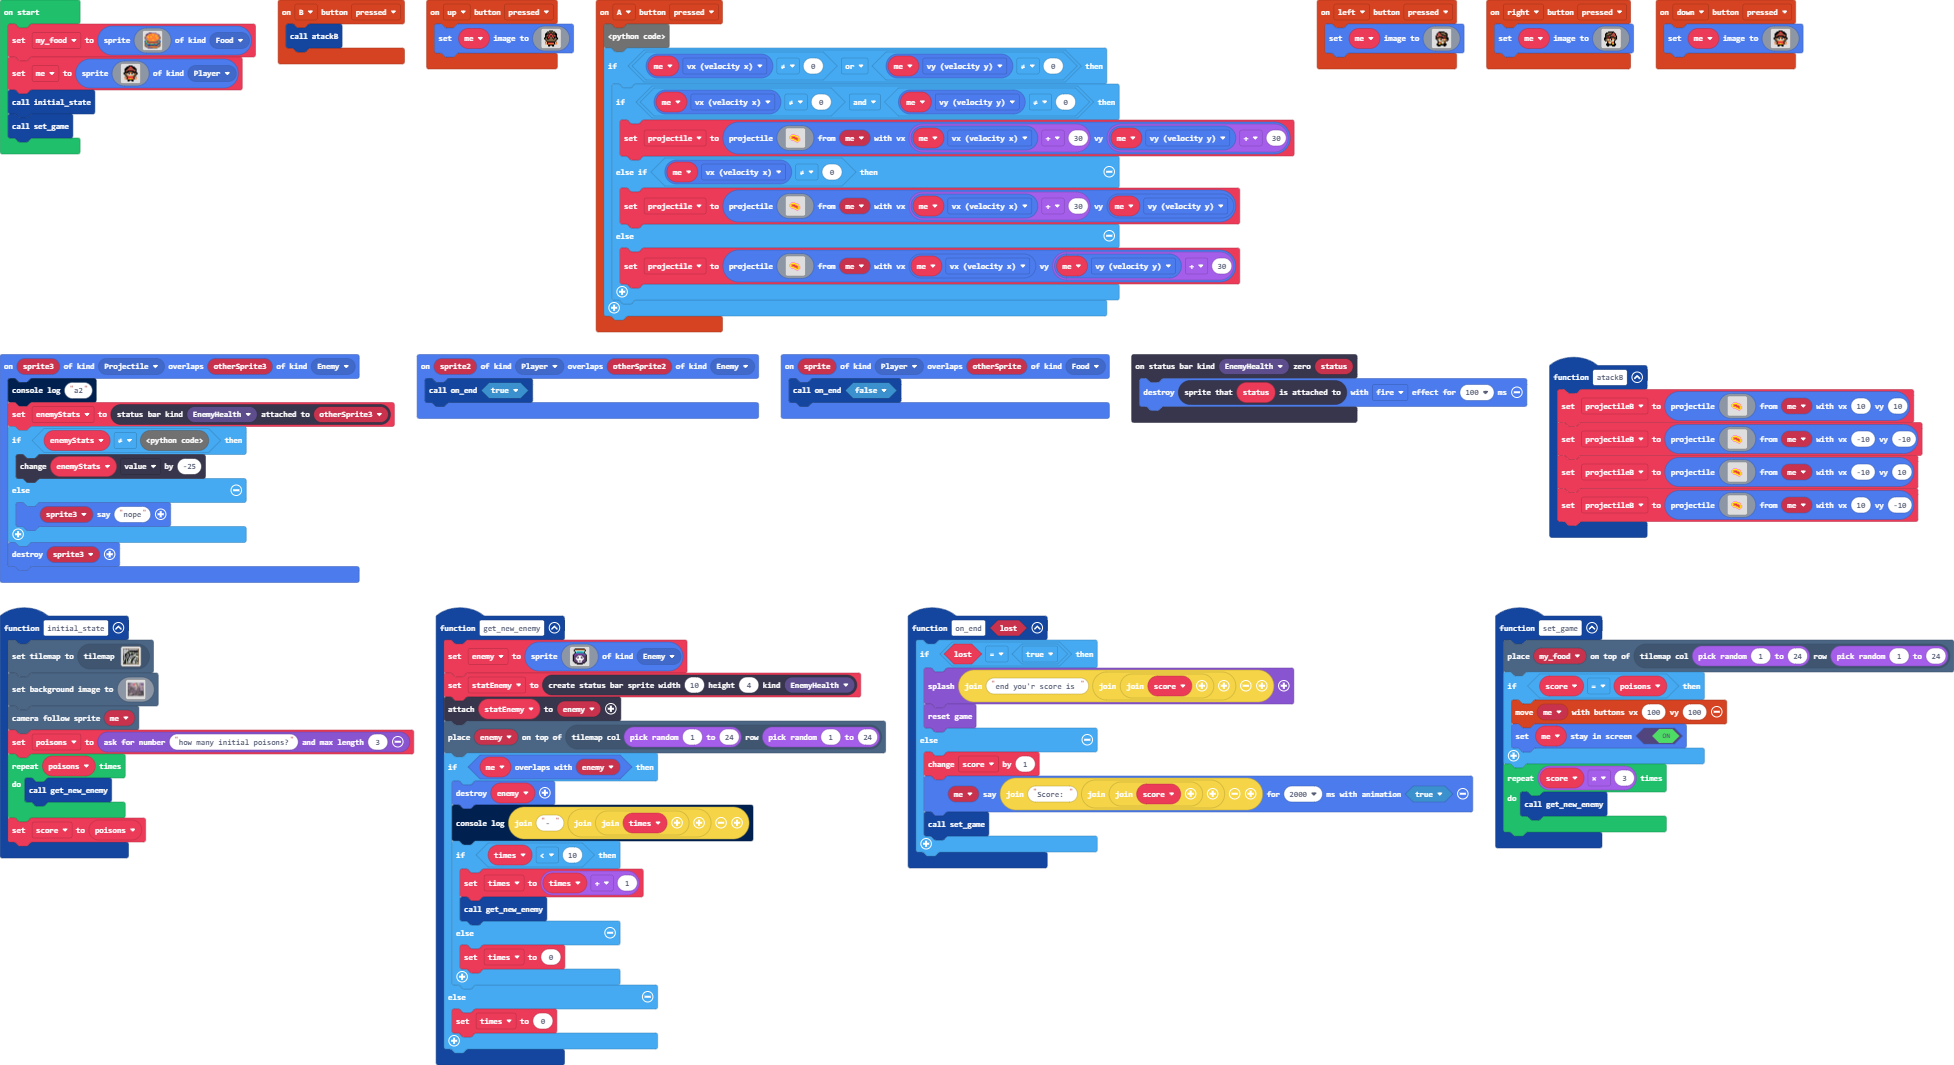
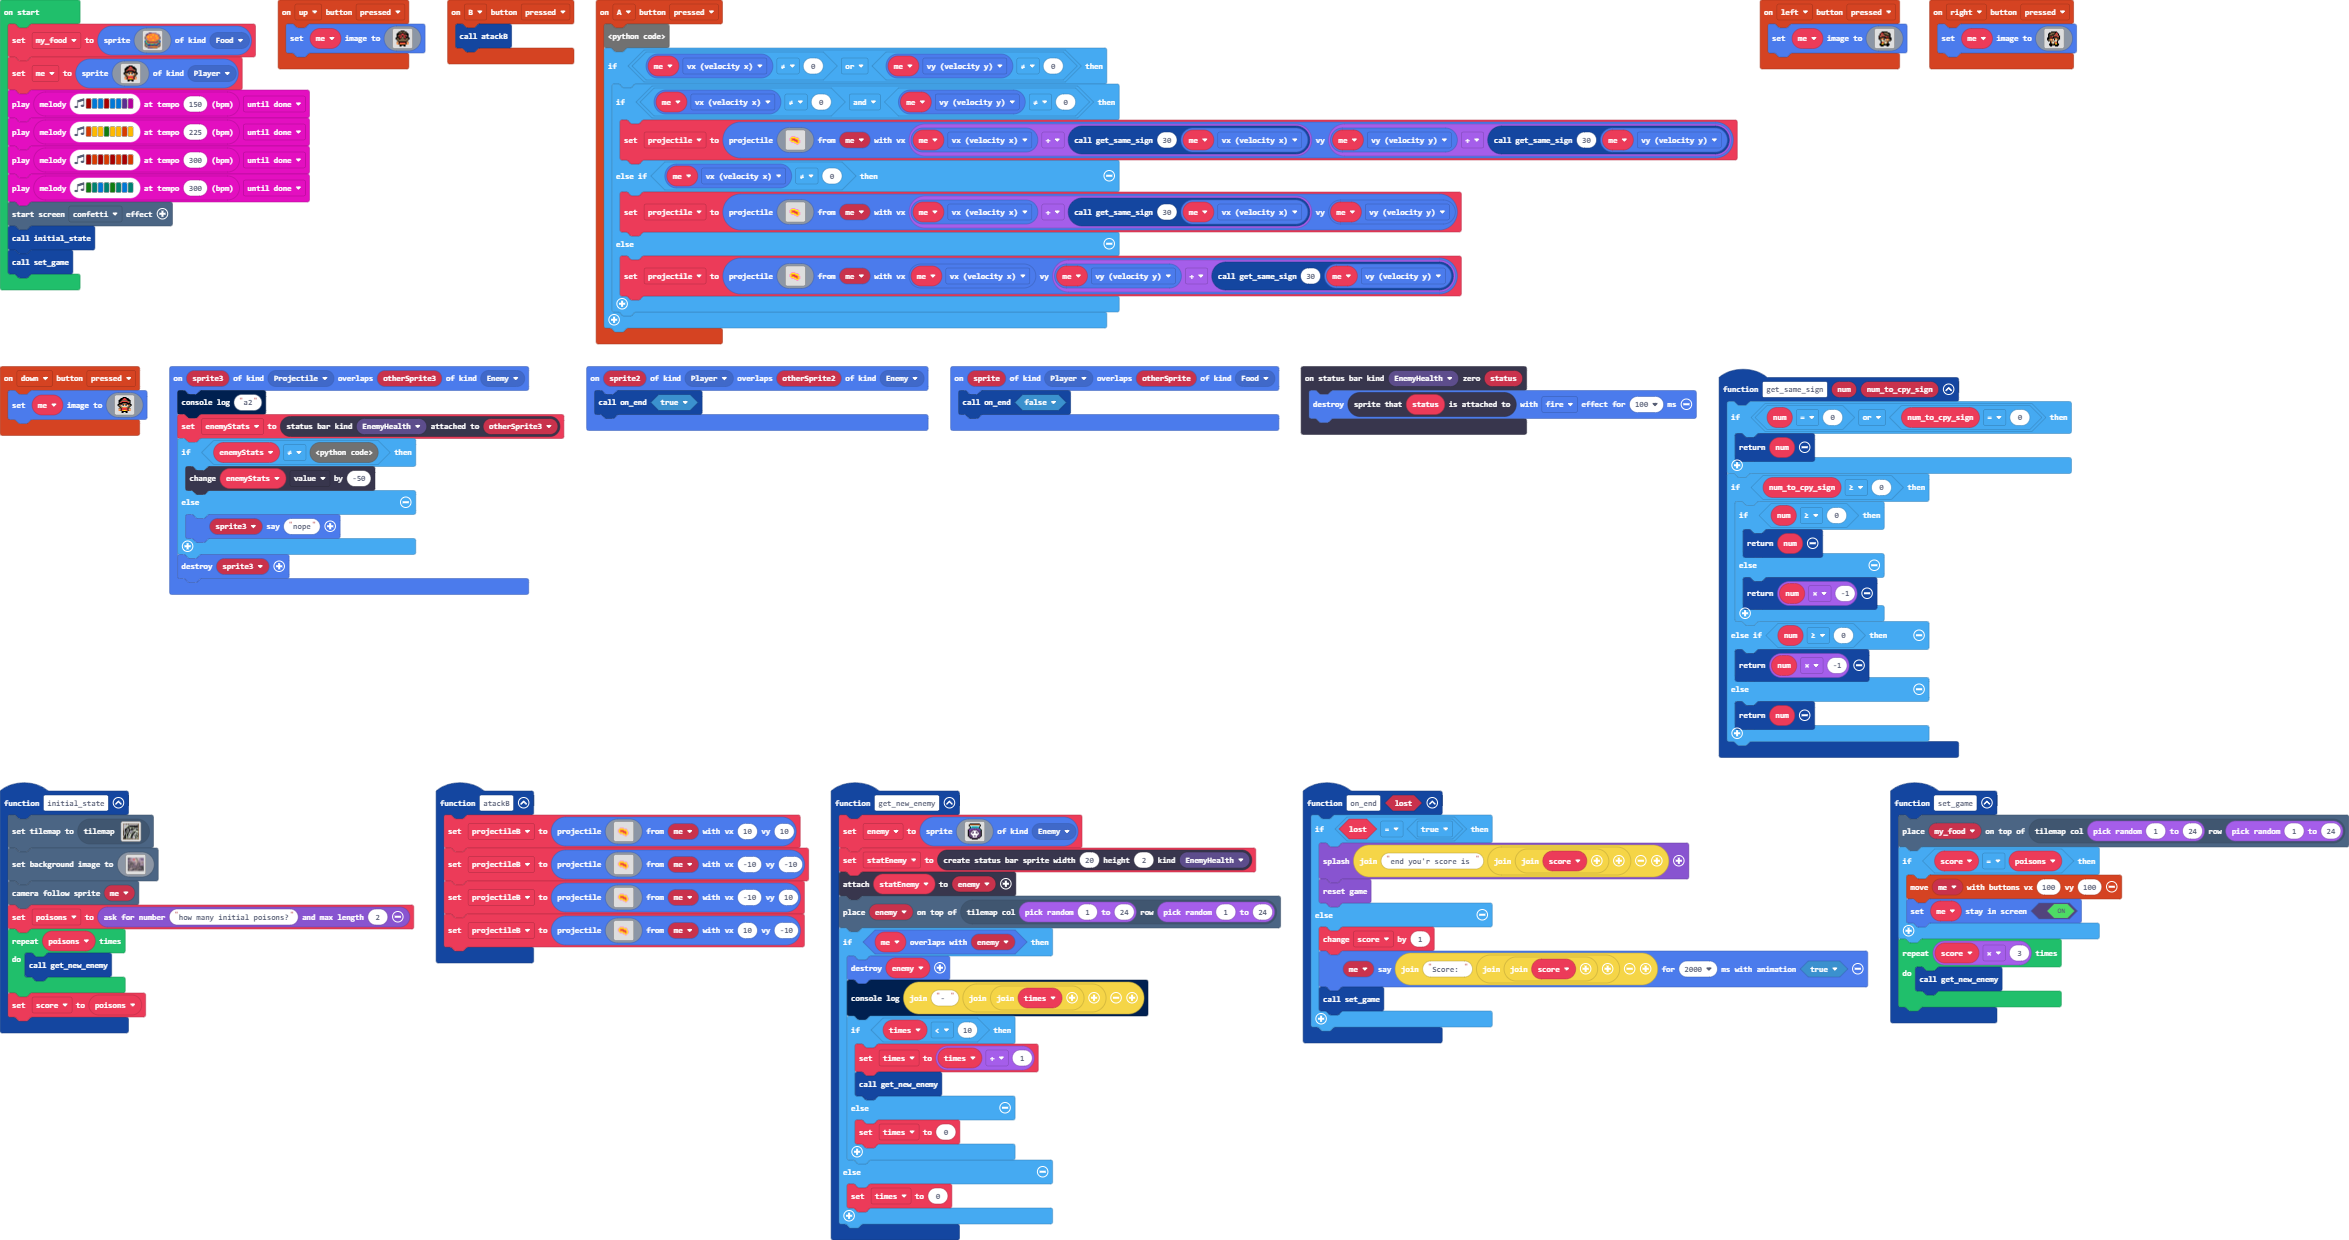
the end 2

diff --git a/main.ts b/main.ts
@@ -1,186 +1,137 @@
 namespace SpriteKind {
     export const humb = SpriteKind.create()
 }
-
-function set_game() {
+function set_game () {
     tiles.placeOnTile(my_food, tiles.getTileLocation(randint(1, 24), randint(1, 24)))
     if (score == poisons) {
         controller.moveSprite(me, 100, 100)
         me.setStayInScreen(true)
     }
-    
     for (let index = 0; index < score * 3; index++) {
         get_new_enemy()
     }
 }
-
-controller.up.onEvent(ControllerButtonEvent.Pressed, function on_up_pressed() {
-    me.setImage(assets.image`
-        play-p2
-    `)
+controller.up.onEvent(ControllerButtonEvent.Pressed, function () {
+    me.setImage(assets.image`play-p2`)
 })
-controller.B.onEvent(ControllerButtonEvent.Pressed, function on_b_pressed() {
+controller.B.onEvent(ControllerButtonEvent.Pressed, function () {
     atackB()
 })
-function get_same_sign(num: number, num_to_cpy_sign: number): number {
-    if (num == 0 || num_to_cpy_sign == 0) {
-        return num
-    }
-    
-    if (num_to_cpy_sign >= 0) {
-        if (num >= 0) {
-            return num
-        } else {
-            return num * -1
-        }
-        
-    } else if (num >= 0) {
-        return num * -1
-    } else {
-        return num
-    }
-    
-}
-
-controller.A.onEvent(ControllerButtonEvent.Pressed, function on_a_pressed() {
+controller.A.onEvent(ControllerButtonEvent.Pressed, function () {
     let projectile: Sprite;
-    if (me.vx != 0 || me.vy != 0) {
+if (me.vx != 0 || me.vy != 0) {
         if (me.vx != 0 && me.vy != 0) {
-            projectile = sprites.createProjectileFromSprite(assets.image`
-                dart
-            `, me, me.vx + get_same_sign(30, me.vx), me.vy + get_same_sign(30, me.vy))
+            projectile = sprites.createProjectileFromSprite(assets.image`dart`, me, me.vx + get_same_sign(30, me.vx), me.vy + get_same_sign(30, me.vy))
         } else if (me.vx != 0) {
-            projectile = sprites.createProjectileFromSprite(assets.image`
-                dart
-            `, me, me.vx + get_same_sign(30, me.vx), me.vy)
+            projectile = sprites.createProjectileFromSprite(assets.image`dart`, me, me.vx + get_same_sign(30, me.vx), me.vy)
         } else {
-            projectile = sprites.createProjectileFromSprite(assets.image`
-                dart
-            `, me, me.vx, me.vy + get_same_sign(30, me.vy))
+            projectile = sprites.createProjectileFromSprite(assets.image`dart`, me, me.vx, me.vy + get_same_sign(30, me.vy))
         }
-        
     }
-    
 })
-function get_new_enemy() {
-    
-    enemy = sprites.create(assets.image`
-        poison
-    `, SpriteKind.Enemy)
-    statEnemy = statusbars.create(10, 4, StatusBarKind.EnemyHealth)
+function get_new_enemy () {
+    enemy = sprites.create(assets.image`poison`, SpriteKind.Enemy)
+    statEnemy = statusbars.create(20, 2, StatusBarKind.EnemyHealth)
     statEnemy.attachToSprite(enemy)
     tiles.placeOnTile(enemy, tiles.getTileLocation(randint(1, 24), randint(1, 24)))
     if (me.overlapsWith(enemy)) {
         enemy.destroy()
-        console.log("- " + ("" + ("" + times)))
+        console.log("- " + ("" + times))
         if (times < 10) {
             times = times + 1
             get_new_enemy()
         } else {
             times = 0
         }
-        
     } else {
         times = 0
     }
-    
 }
-
-controller.left.onEvent(ControllerButtonEvent.Pressed, function on_left_pressed() {
-    me.setImage(assets.image`
-        play-p1
-    `)
+controller.left.onEvent(ControllerButtonEvent.Pressed, function () {
+    me.setImage(assets.image`play-p1`)
 })
-sprites.onOverlap(SpriteKind.Player, SpriteKind.Enemy, function on_on_overlap(sprite2: Sprite, otherSprite2: Sprite) {
+sprites.onOverlap(SpriteKind.Player, SpriteKind.Enemy, function (sprite2, otherSprite2) {
     on_end(true)
 })
-statusbars.onZero(StatusBarKind.EnemyHealth, function on_on_zero(status: StatusBarSprite) {
+statusbars.onZero(StatusBarKind.EnemyHealth, function (status) {
     sprites.destroy(status.spriteAttachedTo(), effects.fire, 100)
 })
-controller.right.onEvent(ControllerButtonEvent.Pressed, function on_right_pressed() {
-    me.setImage(assets.image`
-        play-p3
-    `)
+controller.right.onEvent(ControllerButtonEvent.Pressed, function () {
+    me.setImage(assets.image`play-p3`)
 })
-function initial_state() {
-    
-    tiles.setCurrentTilemap(tilemap`
-        level
-    `)
-    scene.setBackgroundImage(assets.image`
-        lib2
-    `)
+function initial_state () {
+    tiles.setCurrentTilemap(tilemap`level`)
+    scene.setBackgroundImage(assets.image`lib2`)
     scene.cameraFollowSprite(me)
     poisons = game.askForNumber("how many initial poisons?", 2)
-    for (let index2 = 0; index2 < poisons; index2++) {
+    for (let index = 0; index < poisons; index++) {
         get_new_enemy()
     }
     score = poisons
 }
-
-function atackB() {
-    
-    projectileB = sprites.createProjectileFromSprite(assets.image`
-        dart
-    `, me, 10, 10)
-    projectileB = sprites.createProjectileFromSprite(assets.image`
-        dart
-    `, me, -10, -10)
-    projectileB = sprites.createProjectileFromSprite(assets.image`
-        dart
-    `, me, -10, 10)
-    projectileB = sprites.createProjectileFromSprite(assets.image`
-        dart
-    `, me, 10, -10)
+function atackB () {
+    projectileB = sprites.createProjectileFromSprite(assets.image`dart`, me, 10, 10)
+    projectileB = sprites.createProjectileFromSprite(assets.image`dart`, me, -10, -10)
+    projectileB = sprites.createProjectileFromSprite(assets.image`dart`, me, -10, 10)
+    projectileB = sprites.createProjectileFromSprite(assets.image`dart`, me, 10, -10)
 }
-
-controller.down.onEvent(ControllerButtonEvent.Pressed, function on_down_pressed() {
-    me.setImage(assets.image`
-        play-front
-    `)
+controller.down.onEvent(ControllerButtonEvent.Pressed, function () {
+    me.setImage(assets.image`play-front`)
 })
-sprites.onOverlap(SpriteKind.Player, SpriteKind.Food, function on_on_overlap2(sprite: Sprite, otherSprite: Sprite) {
+function get_same_sign (num: number, num_to_cpy_sign: number) {
+    if (num == 0 || num_to_cpy_sign == 0) {
+        return num
+    }
+    if (num_to_cpy_sign >= 0) {
+        if (num >= 0) {
+            return num
+        } else {
+            return num * -1
+        }
+    } else if (num >= 0) {
+        return num * -1
+    } else {
+        return num
+    }
+}
+sprites.onOverlap(SpriteKind.Player, SpriteKind.Food, function (sprite, otherSprite) {
     on_end(false)
 })
-function on_end(lost: boolean) {
-    
+function on_end (lost: boolean) {
     if (lost == true) {
-        game.splash("end you'r score is " + ("" + ("" + score)))
+        game.splash("end you'r score is " + ("" + score))
         game.reset()
     } else {
         score += 1
-        me.sayText("Score: " + ("" + ("" + score)), 2000, true)
+        me.sayText("Score: " + ("" + score), 2000, true)
         set_game()
     }
-    
 }
-
-sprites.onOverlap(SpriteKind.Projectile, SpriteKind.Enemy, function on_on_overlap3(sprite3: Sprite, otherSprite3: Sprite) {
-    
+sprites.onOverlap(SpriteKind.Projectile, SpriteKind.Enemy, function (sprite3, otherSprite3) {
     console.log("a2")
     enemyStats = statusbars.getStatusBarAttachedTo(StatusBarKind.EnemyHealth, otherSprite3)
     if (enemyStats != null) {
-        enemyStats.value += -25
+        enemyStats.value += -50
     } else {
         sprite3.sayText("nope")
     }
-    
     sprites.destroy(sprite3)
 })
-let enemyStats : StatusBarSprite = null
-let projectileB : Sprite = null
+let enemyStats: StatusBarSprite = null
+let projectileB: Sprite = null
 let times = 0
-let statEnemy : StatusBarSprite = null
-let enemy : Sprite = null
+let statEnemy: StatusBarSprite = null
+let enemy: Sprite = null
 let poisons = 0
 let score = 0
-let me : Sprite = null
-let my_food : Sprite = null
-my_food = sprites.create(assets.image`
-    burger
-`, SpriteKind.Food)
-me = sprites.create(assets.image`
-    play-front
-`, SpriteKind.Player)
+let me: Sprite = null
+let my_food: Sprite = null
+my_food = sprites.create(assets.image`burger`, SpriteKind.Food)
+me = sprites.create(assets.image`play-front`, SpriteKind.Player)
+music.play(music.stringPlayable("C5 E E C5 E E D C ", 150), music.PlaybackMode.UntilDone)
+music.play(music.stringPlayable("B A A G A A B A ", 225), music.PlaybackMode.UntilDone)
+music.play(music.stringPlayable("C5 B C5 B C5 B C5 B ", 300), music.PlaybackMode.UntilDone)
+music.play(music.stringPlayable("G F E F G F E F ", 300), music.PlaybackMode.UntilDone)
+effects.confetti.startScreenEffect()
 initial_state()
 set_game()

diff --git a/tilemap.g.ts b/tilemap.g.ts
@@ -89,6 +89,25 @@ namespace myTiles {
 2.......................2
 2222222222222222222222222
 `, [myTiles.transparency16,sprites.builtin.oceanDepths8,sprites.castle.tilePath2,myTiles.tile2,myTiles.tile3,myTiles.tile4,myTiles.tile5,myTiles.tile7,myTiles.tile8,myTiles.tile9], TileScale.Sixteen);
+            case "level4":
+            case "level4":return tiles.createTilemap(hex`1000100000000000000000000000000000000000000000000000000000000000000000000000000000000000000000000000000000000000000000000000000000000000000000000000000000000000000000000000000000000000000000000000000000000000000000000000000000000000000000000000000000000000000000000000000000000000000000000000000000000000000000000000000000000000000000000000000000000000000000000000000000000000000000000000000000000000000000000000000000000000000000000000000000000000000000000000000000000000000000000000000000000000000000000000000000000000`, img`
+. . . . . . . . . . . . . . . . 
+. . . . . . . . . . . . . . . . 
+. . . . . . . . . . . . . . . . 
+. . . . . . . . . . . . . . . . 
+. . . . . . . . . . . . . . . . 
+. . . . . . . . . . . . . . . . 
+. . . . . . . . . . . . . . . . 
+. . . . . . . . . . . . . . . . 
+. . . . . . . . . . . . . . . . 
+. . . . . . . . . . . . . . . . 
+. . . . . . . . . . . . . . . . 
+. . . . . . . . . . . . . . . . 
+. . . . . . . . . . . . . . . . 
+. . . . . . . . . . . . . . . . 
+. . . . . . . . . . . . . . . . 
+. . . . . . . . . . . . . . . . 
+`, [myTiles.transparency16], TileScale.Sixteen);
         }
         return null;
     })

diff --git a/main.py b/main.py
@@ -20,34 +20,29 @@ def on_b_pressed():
     atackB()
 controller.B.on_event(ControllerButtonEvent.PRESSED, on_b_pressed)
 
-def get_same_sign(num, num_to_cpy_sign):
-    if (num == 0 or num_to_cpy_sign == 0):
-        return num
-    if (num_to_cpy_sign >= 0):
-        if (num >= 0):
-            return num
-        else :
-            return num * -1
-    else:
-        if (num >= 0):
-            return num * -1
-        else :
-            return num
-
 def on_a_pressed():
     if me.vx != 0 or me.vy != 0:
         if me.vx != 0 and me.vy != 0:
             projectile = sprites.create_projectile_from_sprite(assets.image("""
-                dart
-            """), me, me.vx + get_same_sign(30, me.vx), me.vy + get_same_sign(30, me.vy))
+                    dart
+                """),
+                me,
+                me.vx + get_same_sign(30, me.vx),
+                me.vy + get_same_sign(30, me.vy))
         elif me.vx != 0:
             projectile = sprites.create_projectile_from_sprite(assets.image("""
-                dart
-            """), me, me.vx + get_same_sign(30, me.vx), me.vy)
+                    dart
+                """),
+                me,
+                me.vx + get_same_sign(30, me.vx),
+                me.vy)
         else:
             projectile = sprites.create_projectile_from_sprite(assets.image("""
-                dart
-            """), me, me.vx,  me.vy + get_same_sign(30, me.vy))
+                    dart
+                """),
+                me,
+                me.vx,
+                me.vy + get_same_sign(30, me.vy))
 controller.A.on_event(ControllerButtonEvent.PRESSED, on_a_pressed)
 
 def get_new_enemy():
@@ -55,7 +50,7 @@ def get_new_enemy():
     enemy = sprites.create(assets.image("""
         poison
     """), SpriteKind.enemy)
-    statEnemy = statusbars.create(10, 4, StatusBarKind.enemy_health)
+    statEnemy = statusbars.create(20, 2, StatusBarKind.enemy_health)
     statEnemy.attach_to_sprite(enemy)
     tiles.place_on_tile(enemy,
         tiles.get_tile_location(randint(1, 24), randint(1, 24)))
@@ -124,6 +119,19 @@ def on_down_pressed():
     """))
 controller.down.on_event(ControllerButtonEvent.PRESSED, on_down_pressed)
 
+def get_same_sign(num: number, num_to_cpy_sign: number):
+    if num == 0 or num_to_cpy_sign == 0:
+        return num
+    if num_to_cpy_sign >= 0:
+        if num >= 0:
+            return num
+        else:
+            return num * -1
+    elif num >= 0:
+        return num * -1
+    else:
+        return num
+
 def on_on_overlap2(sprite, otherSprite):
     on_end(False)
 sprites.on_overlap(SpriteKind.player, SpriteKind.food, on_on_overlap2)
@@ -143,7 +151,7 @@ def on_on_overlap3(sprite3, otherSprite3):
     print("a2")
     enemyStats = statusbars.get_status_bar_attached_to(StatusBarKind.enemy_health, otherSprite3)
     if enemyStats != None:
-        enemyStats.value += -25
+        enemyStats.value += -50
     else:
         sprite3.say_text("nope")
     sprites.destroy(sprite3)
@@ -164,5 +172,9 @@ my_food = sprites.create(assets.image("""
 me = sprites.create(assets.image("""
     play-front
 """), SpriteKind.player)
+effects.confetti.start_screen_effect()
 initial_state()
 set_game()
+melody = music.string_playable("C5 E E C5 E E D C ", 120)
+for index3 in range(4):
+    music.play(melody, music.PlaybackMode.UNTIL_DONE)
